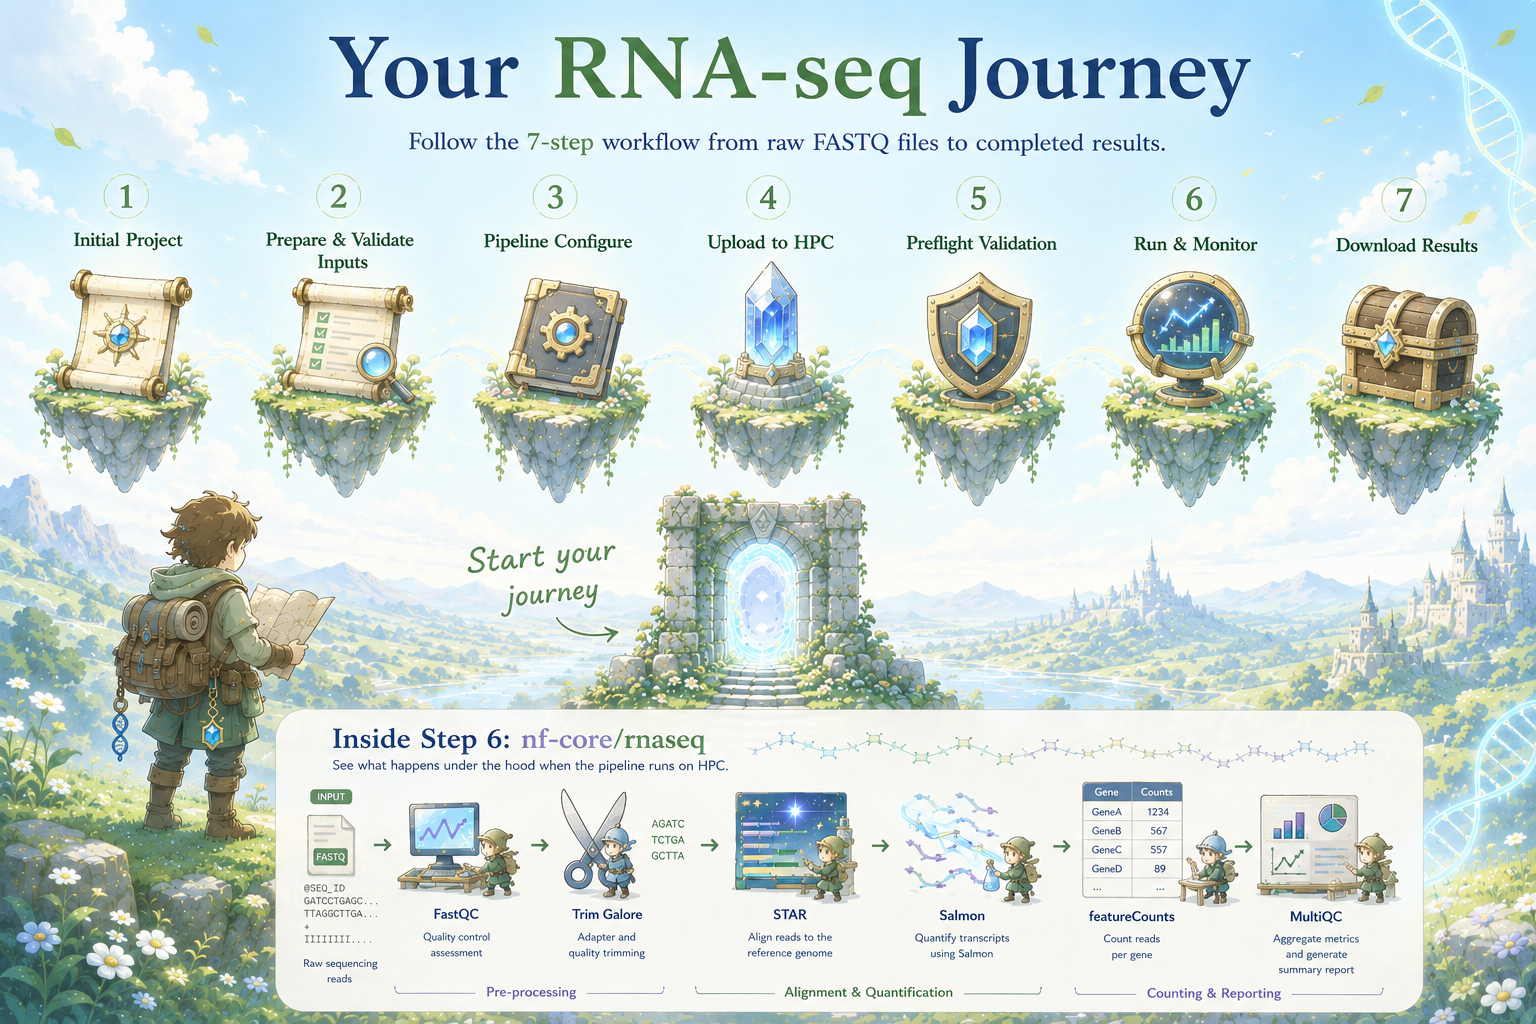
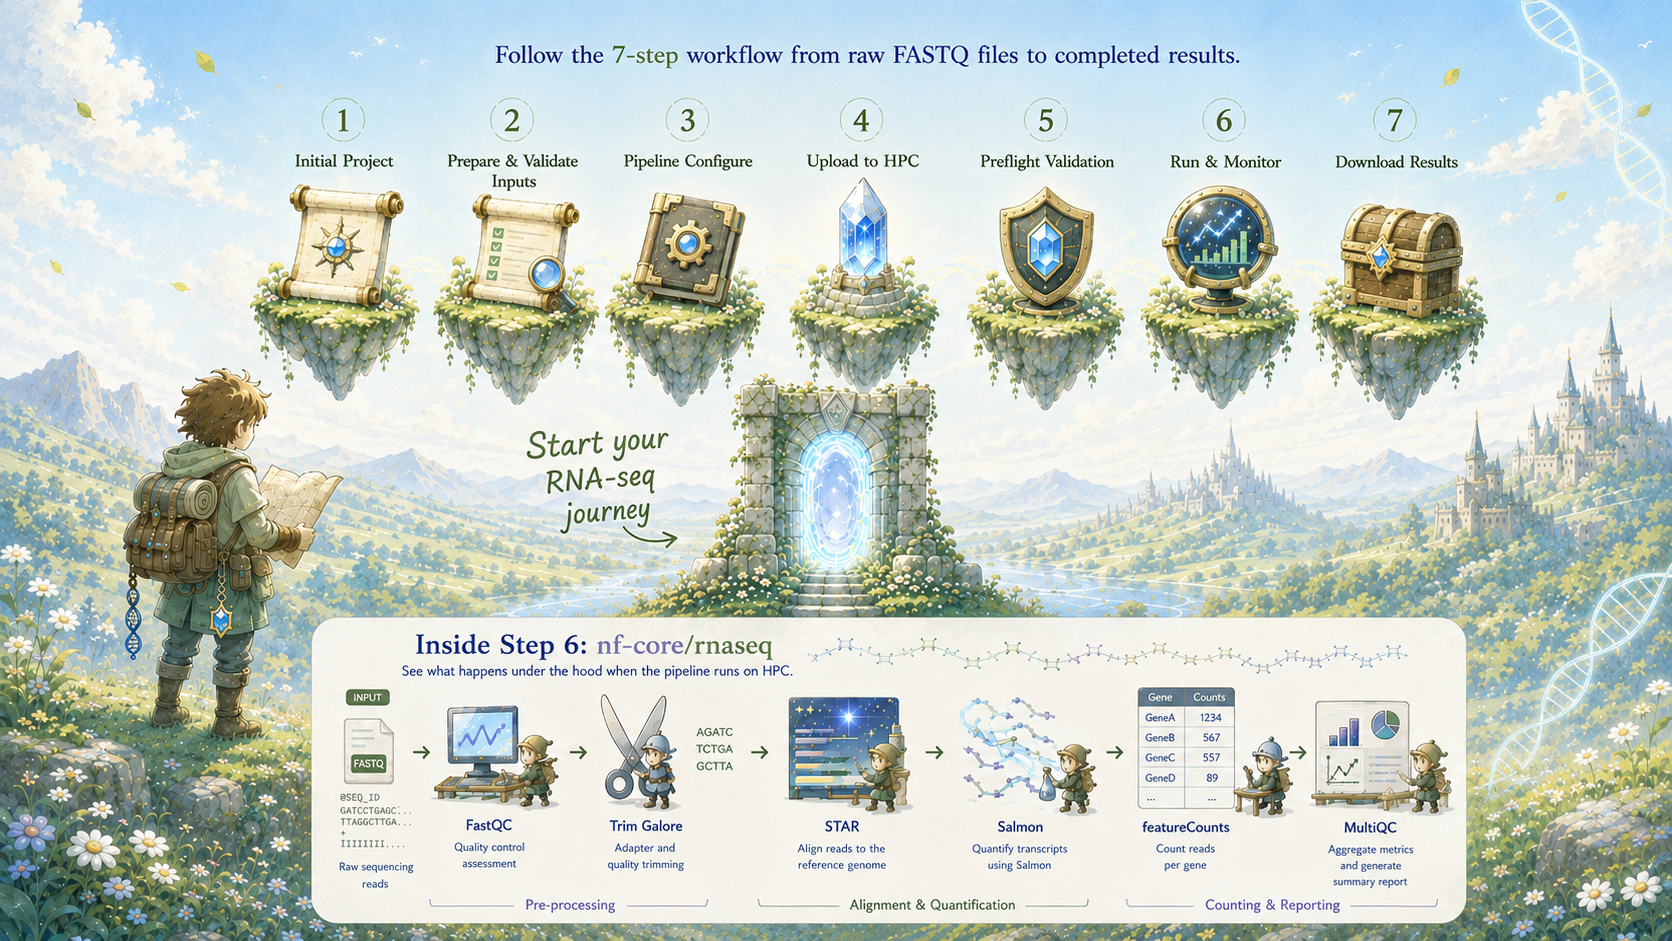
Update guide visuals and documents

diff --git a/style.css b/style.css
@@ -1150,6 +1150,28 @@ h1 {
   font-size: 14px;
 }
 
+.step-visual {
+  max-width: 620px;
+  margin: -4px 0 20px 22px;
+  padding: 10px 12px;
+  background: #fffdf8;
+  border: 1px solid #e7dac4;
+  border-radius: 16px;
+  box-shadow: 0 10px 22px rgba(33, 51, 42, 0.05);
+}
+
+.step-visual img {
+  display: block;
+  width: 100%;
+  max-height: 150px;
+  object-fit: cover;
+  object-position: center 54%;
+}
+
+.step2-input-visual {
+  background: linear-gradient(180deg, #fffdf8 0%, #f8fbf6 100%);
+}
+
 .action-block p:first-child,
 .notes-block h3:first-child {
   margin-top: 0;
@@ -1607,6 +1629,95 @@ h1 {
   font: 14px/1.55 Menlo, Consolas, monospace;
 }
 
+.pipeline-flow {
+  display: grid;
+  grid-template-columns: repeat(3, minmax(0, 1fr));
+  gap: 14px;
+  margin: 24px 0;
+}
+
+.pipeline-flow > div {
+  padding: 18px;
+  background: #f8fbf6;
+  border: 1px solid #dfe9db;
+  border-radius: 14px;
+}
+
+.pipeline-flow h3 {
+  margin: 0 0 8px;
+  color: #2f6b43;
+  font-size: 17px;
+}
+
+.pipeline-flow p {
+  margin: 0;
+  font-size: 15px;
+  line-height: 1.55;
+}
+
+.pipeline-stage-list {
+  display: grid;
+  grid-template-columns: repeat(2, minmax(0, 1fr));
+  gap: 12px;
+  margin: 18px 0 24px;
+}
+
+.pipeline-stage-list > div {
+  padding: 16px 18px;
+  background: #fffdf8;
+  border: 1px solid #e7dac4;
+  border-radius: 14px;
+}
+
+.pipeline-stage-list h3 {
+  margin: 0 0 6px;
+  color: #4f3f7e;
+  font-size: 16px;
+}
+
+.pipeline-stage-list p {
+  margin: 0;
+  font-size: 15px;
+  line-height: 1.55;
+}
+
+.official-link-grid {
+  display: grid;
+  grid-template-columns: repeat(2, minmax(0, 1fr));
+  gap: 10px;
+  margin: 22px 0;
+}
+
+.official-link-grid a {
+  display: flex;
+  align-items: center;
+  min-height: 44px;
+  padding: 10px 14px;
+  color: #315f42;
+  font-size: 15px;
+  font-weight: 700;
+  text-decoration: none;
+  background: #fffdf8;
+  border: 1px solid #dfd2ee;
+  border-radius: 12px;
+  transition: transform 160ms ease, border-color 160ms ease, box-shadow 160ms ease;
+}
+
+.official-link-grid a:hover,
+.official-link-grid a:focus-visible {
+  transform: translateY(-1px);
+  border-color: #bca0dc;
+  box-shadow: 0 8px 18px rgba(89, 64, 122, 0.1);
+}
+
+.reference-note {
+  margin: 22px 0 0;
+  padding: 16px 18px;
+  background: #fbf8ff;
+  border: 1px solid #e3d6f0;
+  border-radius: 14px;
+}
+
 .two-col {
   display: grid;
   grid-template-columns: repeat(2, minmax(0, 1fr));
@@ -1794,13 +1905,15 @@ footer {
 }
 
 .intro-scene {
-  width: min(1560px, 98.5vw);
-  max-height: calc(100vh - 18px);
-  aspect-ratio: 16 / 9;
+  box-sizing: border-box;
+  width: calc(100vw - 12px);
+  height: calc(100dvh - 12px);
+  max-height: calc(100dvh - 12px);
+  aspect-ratio: 1672 / 941;
   padding: 0;
-  background: #ffffff;
-  border: 1px solid var(--green-line);
-  border-radius: 16px;
+  background: transparent;
+  border: 0;
+  border-radius: 14px;
   cursor: pointer;
   overflow: hidden;
   box-shadow: 0 28px 90px rgba(33, 51, 42, 0.16), 0 0 42px rgba(111, 207, 151, 0.18);
@@ -1815,7 +1928,8 @@ footer {
   width: 100%;
   height: 100%;
   display: block;
-  object-fit: contain;
+  object-fit: cover;
+  object-position: center 62%;
 }
 
 .intro-start {
@@ -2218,4 +2332,26 @@ footer {
   background: var(--panel);
   border-color: var(--tag);
   color: var(--tag);
+}
+
+.step2-action-block {
+  position: relative;
+  min-height: 250px;
+}
+
+.step2-inline-visual {
+  float: right;
+  width: min(34%, 250px);
+  margin: 0 0 14px 24px;
+  padding: 0;
+  background: transparent;
+  border: 0;
+  border-radius: 0;
+}
+
+.step2-inline-visual img {
+  display: block;
+  width: 100%;
+  max-height: 86px;
+  object-fit: contain;
 }

diff --git a/documents.html b/documents.html
@@ -30,19 +30,72 @@
 
     <section class="content-card">
       <h2>Knowledge Hub Map</h2>
-      <p>Use this page when you want a little more context than the workflow cards provide.</p>
+      <p>Use this page as a quick reference when you want the details behind the workflow cards.</p>
       <ul>
-        <li><strong>Pipeline overview:</strong> what nf-core/rnaseq does from FASTQ to count matrix.</li>
-        <li><strong>Beginner decisions:</strong> when to use STAR + Salmon or Salmon only.</li>
-        <li><strong>HPC recovery:</strong> how validation, auto-fix, logs, and resume fit together.</li>
-        <li><strong>Outputs and next steps:</strong> which files to open first and where downstream analysis begins.</li>
+        <li><strong>nf-core/rnaseq Pipeline:</strong> official pipeline role, inputs, major processing stages, outputs, and reference links.</li>
+        <li><strong>What Each Step Does:</strong> how the seven workflow steps connect from project setup to downloaded results.</li>
+        <li><strong>Choose Pipeline Mode:</strong> when STAR + Salmon is the safer default and when Salmon-only may be enough.</li>
+        <li><strong>Validation and recovery:</strong> what Smoke Test, One Sample Run, auto-fix, logs, and resume are meant to protect.</li>
+        <li><strong>Troubleshooting and next steps:</strong> common HPC issues, which output files to open first, and where downstream analysis begins.</li>
+        <li><strong>FAQ:</strong> short answers to beginner questions, collected at the end of this page.</li>
       </ul>
     </section>
 
-    <section class="content-card">
-      <h2>nf-core RNA-seq Pipeline</h2>
-      <p>nf-core/rnaseq is a Nextflow pipeline for RNA-seq processing. It starts from FASTQ files, performs read QC, optional trimming, alignment or quantification, count generation, MultiQC reporting, and metadata capture.</p>
-      <p>The runner does not replace nf-core/rnaseq. It wraps project setup, validation, HPC transfer, safe recovery, monitoring, and result download around the pipeline.</p>
+    <section class="content-card pipeline-reference-card">
+      <h2>nf-core/rnaseq Pipeline</h2>
+      <p>nf-core/rnaseq is the official nf-core RNA-seq analysis pipeline. It is built with Nextflow and is designed for RNA-seq data from organisms with a reference genome and annotation. It can start from FASTQ files or compatible BAM inputs, then run quality control, trimming, alignment or pseudo-alignment, quantification, MultiQC reporting, and pipeline metadata capture.</p>
+
+      <div class="pipeline-flow" aria-label="Simple nf-core/rnaseq flow">
+        <div>
+          <h3>Inputs</h3>
+          <p>FASTQ files + samplesheet + reference genome + annotation</p>
+        </div>
+        <div>
+          <h3>Pipeline</h3>
+          <p>QC → trimming → STAR + Salmon or Salmon-only → count matrix → MultiQC report</p>
+        </div>
+        <div>
+          <h3>Outputs</h3>
+          <p>gene/transcript counts, quality-control reports, logs, software versions, and reproducibility metadata.</p>
+        </div>
+      </div>
+
+      <div class="pipeline-stage-list" aria-label="Pipeline stage details">
+        <div>
+          <h3>QC</h3>
+          <p>Checks raw read quality before analysis. This helps you see read quality, adapter content, duplication, overrepresented sequences, and other warning signs before trusting downstream results.</p>
+        </div>
+        <div>
+          <h3>Trimming</h3>
+          <p>Removes adapters and low-quality sequence when trimming is enabled. This can improve mapping or quantification when raw reads contain technical sequence or poor-quality tails.</p>
+        </div>
+        <div>
+          <h3>STAR + Salmon</h3>
+          <p>Aligns reads to the reference genome with STAR, then uses Salmon for transcript-level quantification. This mode is useful when you want alignment evidence, mapping metrics, and a full reference-guided RNA-seq run.</p>
+        </div>
+        <div>
+          <h3>Salmon-only</h3>
+          <p>Quantifies reads without genome alignment. This is faster and lighter, but it is mainly for quantification-focused runs and does not produce the same genome-alignment evidence as STAR-based mode.</p>
+        </div>
+        <div>
+          <h3>Count matrix</h3>
+          <p>Produces gene-level and/or transcript-level count or abundance tables for downstream analysis. These are the key files used later for differential expression, visualisation, and other RNA-seq summaries.</p>
+        </div>
+        <div>
+          <h3>MultiQC report</h3>
+          <p>Collects QC and pipeline metrics into one HTML report. Open this first after a run to review sequencing quality, trimming, mapping or quantification performance, and whether the run looks usable.</p>
+        </div>
+      </div>
+
+      <div class="official-link-grid" aria-label="Official nf-core/rnaseq references">
+        <a href="https://nf-co.re/rnaseq">Official nf-core/rnaseq page</a>
+        <a href="https://nf-co.re/rnaseq/3.26.0/docs/usage/">Usage documentation</a>
+        <a href="https://nf-co.re/rnaseq/3.26.0/parameters/">Parameters</a>
+        <a href="https://nf-co.re/rnaseq/3.26.0/docs/output/">Output documentation</a>
+        <a href="https://github.com/nf-core/rnaseq">GitHub repository</a>
+      </div>
+
+      <p class="reference-note">This guide is not a replacement for the official nf-core/rnaseq documentation. It is a beginner-friendly HPC wrapper that helps users prepare inputs, validate configuration, run safely on HPC, resume failed jobs, and download results.</p>
     </section>
 
     <section class="content-card">
@@ -86,20 +139,6 @@
     </section>
 
     <section class="content-card">
-      <h2>FAQ</h2>
-      <h3>What is nf-core/rnaseq?</h3>
-      <p>A community-maintained RNA-seq pipeline built with Nextflow.</p>
-      <h3>What is a samplesheet?</h3>
-      <p>A CSV file that maps sample IDs to FASTQ files and strandedness.</p>
-      <h3>What is Apptainer?</h3>
-      <p>A container runtime commonly used on HPC clusters.</p>
-      <h3>Can I resume a failed run?</h3>
-      <p>Yes. Keep the work directory and use Nextflow resume.</p>
-      <h3>What should I keep after the run?</h3>
-      <p>Results, reports, logs, MultiQC, quantification outputs, pipeline metadata, samplesheet, configs, scripts, and reference metadata.</p>
-    </section>
-
-    <section class="content-card">
       <h2>Troubleshooting Notes</h2>
       <ul>
         <li><strong>STAR killed:</strong> check memory and walltime; use One Sample Run to estimate resources.</li>
@@ -121,6 +160,21 @@
         <li>Move into enrichment, co-expression, visualisation, Shiny, or reporting only after QC looks reasonable.</li>
       </ul>
     </section>
+    <section class="content-card">
+      <h2>FAQ</h2>
+      <h3>What is nf-core/rnaseq?</h3>
+      <p>A community-maintained RNA-seq pipeline built with Nextflow.</p>
+      <h3>What is a samplesheet?</h3>
+      <p>A CSV file that maps sample IDs to FASTQ files and strandedness.</p>
+      <h3>What is Apptainer?</h3>
+      <p>A container runtime commonly used on HPC clusters.</p>
+      <h3>Can I resume a failed run?</h3>
+      <p>Yes. Keep the work directory and use Nextflow resume.</p>
+      <h3>What should I keep after the run?</h3>
+      <p>Results, reports, logs, MultiQC, quantification outputs, pipeline metadata, samplesheet, configs, scripts, and reference metadata.</p>
+    </section>
+
+
   </main>
 
   <footer>Reproducible · Secure · Resumable · Shareable</footer>

diff --git a/index.html b/index.html
@@ -126,14 +126,16 @@
           </div>
           <p class="step-purpose">Place FASTQ, reference genome, and annotation files in the project, then generate and validate the samplesheet before upload.</p>
           <div class="action-notes-grid">
-            <div class="action-block">
+            <div class="action-block step2-action-block">
+              <figure class="step2-inline-visual">
+                <img src="assets/step2-input-files.png" alt="FASTQ file, reference genome, and GFF3 annotation inputs for Step 2.">
+              </figure>
               <p><strong>What You Do:</strong></p>
               <ol>
             <li>Add or link FASTQ files in <code>input/fastq/</code>.</li>
             <li>Add or link the reference genome in <code>input/reference/</code>.</li>
             <li>Add or link the annotation file in <code>input/annotation/</code>.</li>
-            <li>Open your terminal.</li>
-            <li>Move into your project folder:
+            <li>Open your terminal and move into your local project folder:
               <pre data-command="local-cd"></pre>
             </li>
             <li>Generate <code>input/samplesheet.csv</code>:
@@ -318,8 +320,7 @@ fi
             <div class="action-block">
               <p><strong>What You Do:</strong></p>
               <ol>
-            <li>Open your terminal.</li>
-            <li>Move into your project folder:
+            <li>Open your terminal and move into your local project folder:
               <pre data-command="local-cd"></pre>
             </li>
             <li>Choose the pipeline mode <a href="documents.html#choose-pipeline-mode">how to decide</a>:
@@ -617,8 +618,7 @@ echo "HPC target: ${HPC_USER}@${HPC_HOST}:${HPC_PROJECT_DIR}"
             <div class="action-block">
               <p><strong>What You Do:</strong></p>
               <ol>
-            <li>Open your terminal.</li>
-            <li>Move into your local project folder:
+            <li>Open your terminal and move into your local project folder:
               <pre data-command="local-cd"></pre>
             </li>
             <li>Log in to your HPC using the Phoenix account and host selected in Step 1: